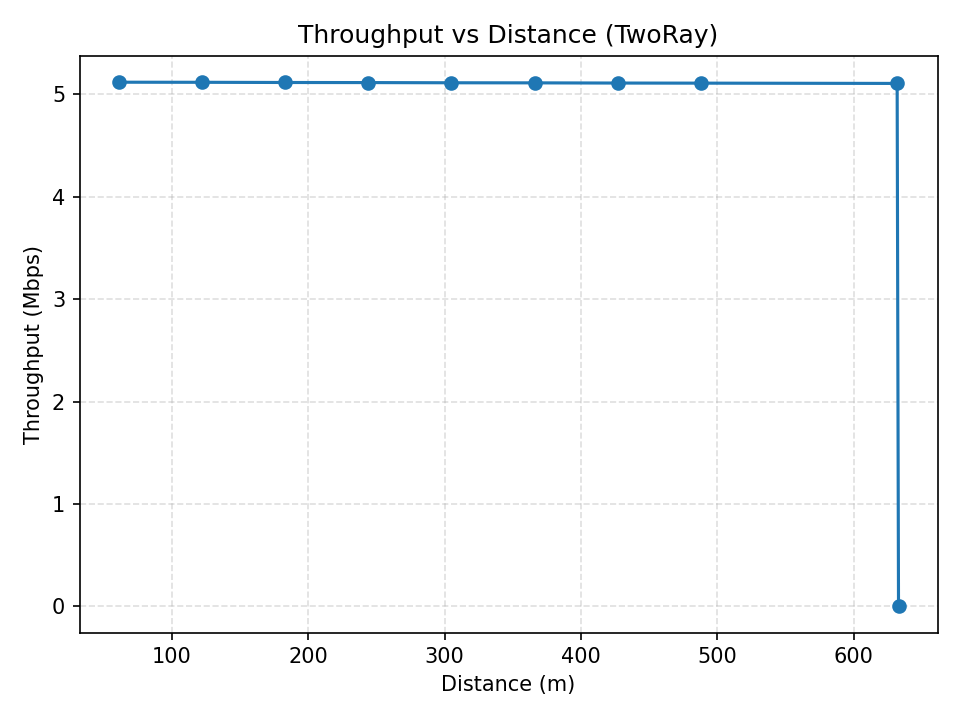
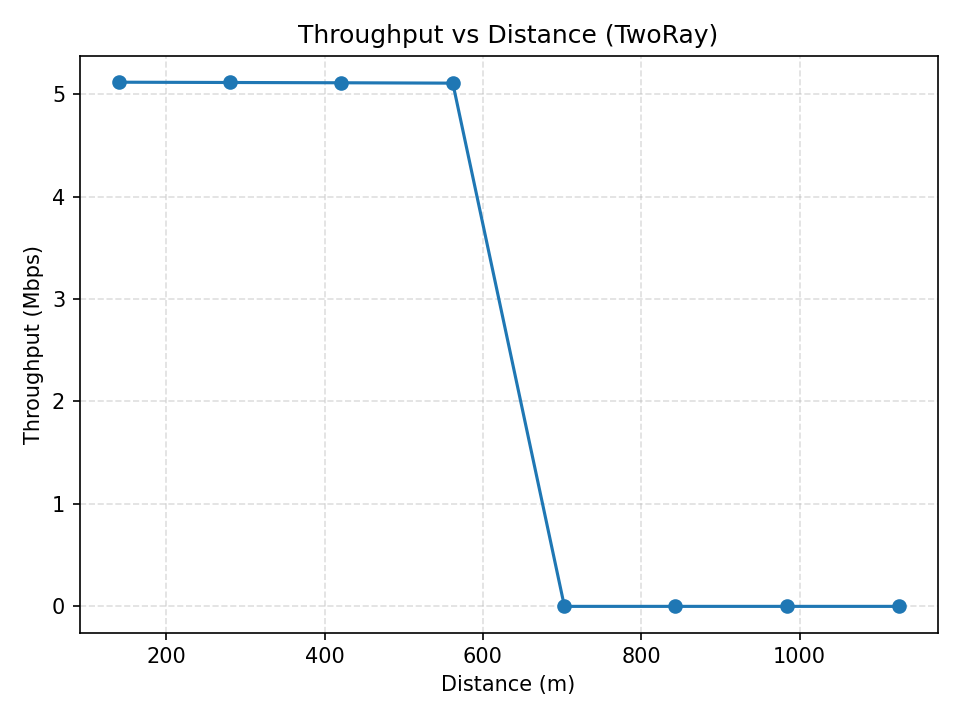
did two ray again

diff --git a/Lab-01-Propagation/code/Lab1_Cpp_Cost231.cc b/Lab-01-Propagation/code/Lab1_Cpp_Cost231.cc
@@ -26,6 +26,7 @@ int main (int argc, char* argv[])
                              "Frequency",       DoubleValue(1.8e9),
                              "BSAntennaHeight", DoubleValue(15.0),
                              "SSAntennaHeight", DoubleValue(1.5),
+                            //  "C",               DoubleValue(10.0),
                              "MinDistance",     DoubleValue(0.5));
   // NOTE: If your ns-3.40 build supports 'C' you can add: "C", DoubleValue(10.0)
 

diff --git a/Lab-01-Propagation/code/Lab1_Cpp_TwoRay.cc b/Lab-01-Propagation/code/Lab1_Cpp_TwoRay.cc
@@ -79,8 +79,8 @@ int main (int argc, char* argv[])
   Simulator::Destroy();
 
   const double thr_bps = (rxBytes * 8.0) / 9.0;
-  std::cout << "CSV,model=TwoRay,distance_m=" << distance
-            << ",rxBytes=" << rxBytes
-            << ",throughput_bps=" << thr_bps << std::endl;
+  std::cout << "TwoRay," << distance
+            << "," << rxBytes
+            << "," << thr_bps << std::endl;
   return 0;
 }

diff --git a/Lab-01-Propagation/code/d.py b/Lab-01-Propagation/code/d.py
@@ -1,0 +1,4 @@
+d = 143
+
+for i in range(1,9,1):
+    print(f"{i}: {d*i//8}")
